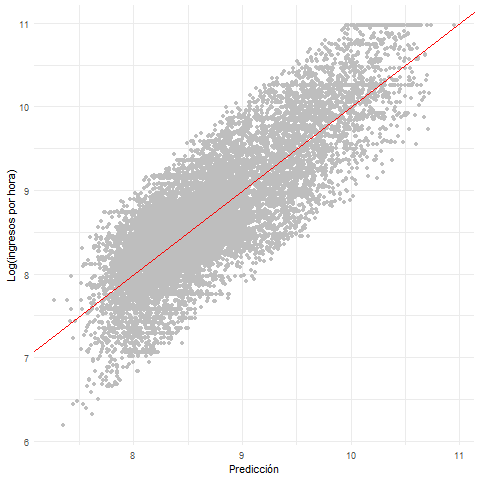
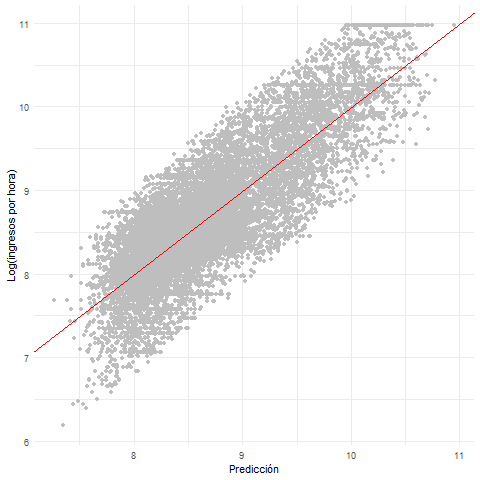
modificaciones

diff --git a/Latex/modelos_edad_ingresos_controles.tex b/Latex/modelos_edad_ingresos_controles.tex
@@ -1,6 +1,6 @@
 
 % Table created by stargazer v.5.2.3 by Marek Hlavac, Social Policy Institute. E-mail: marek.hlavac at gmail.com
-% Date and time: dom., sept. 15, 2024 - 9:50:37 a. m.
+% Date and time: dom., sept. 15, 2024 - 10:37:48 a. m.
 % Requires LaTeX packages: dcolumn 
 \begin{tabular}{@{\extracolsep{5pt}}lD{.}{.}{-3} D{.}{.}{-3} D{.}{.}{-3} } 
 \\[-1.8ex]\hline 
@@ -10,18 +10,18 @@
  & \multicolumn{1}{c}{Con controles} & \multicolumn{1}{c}{Sin obs. influyentes} & \multicolumn{1}{c}{Sin Valores atípicos} \\ 
 \\[-1.8ex] & \multicolumn{1}{c}{(1)} & \multicolumn{1}{c}{(2)} & \multicolumn{1}{c}{(3)}\\ 
 \hline \\[-1.8ex] 
- Edad & 0.039^{***} & 0.040^{***} & 0.037^{***} \\ 
+ Edad & 0.040^{***} & 0.040^{***} & 0.037^{***} \\ 
   & (0.002) & (0.002) & (0.002) \\ 
   & & & \\ 
  Edad al cuadrado & -0.0004^{***} & -0.0004^{***} & -0.0004^{***} \\ 
   & (0.00002) & (0.00002) & (0.00002) \\ 
   & & & \\ 
 \hline \\[-1.8ex] 
-Observaciones & \multicolumn{1}{c}{16,540} & \multicolumn{1}{c}{15,898} & \multicolumn{1}{c}{15,662} \\ 
-R$^{2}$ & \multicolumn{1}{c}{0.571} & \multicolumn{1}{c}{0.571} & \multicolumn{1}{c}{0.686} \\ 
-Adjusted R$^{2}$ & \multicolumn{1}{c}{0.569} & \multicolumn{1}{c}{0.569} & \multicolumn{1}{c}{0.684} \\ 
-Residual Std. Error & \multicolumn{1}{c}{0.531 (df = 16440)} & \multicolumn{1}{c}{0.529 (df = 15827)} & \multicolumn{1}{c}{0.402 (df = 15562)} \\ 
-F Statistic & \multicolumn{1}{c}{221.214$^{***}$ (df = 99; 16440)} & \multicolumn{1}{c}{300.390$^{***}$ (df = 70; 15827)} & \multicolumn{1}{c}{343.765$^{***}$ (df = 99; 15562)} \\ 
+Observaciones & \multicolumn{1}{c}{16,540} & \multicolumn{1}{c}{15,921} & \multicolumn{1}{c}{15,665} \\ 
+R$^{2}$ & \multicolumn{1}{c}{0.572} & \multicolumn{1}{c}{0.570} & \multicolumn{1}{c}{0.686} \\ 
+Adjusted R$^{2}$ & \multicolumn{1}{c}{0.570} & \multicolumn{1}{c}{0.568} & \multicolumn{1}{c}{0.684} \\ 
+Residual Std. Error & \multicolumn{1}{c}{0.530 (df = 16439)} & \multicolumn{1}{c}{0.529 (df = 15850)} & \multicolumn{1}{c}{0.402 (df = 15565)} \\ 
+F Statistic & \multicolumn{1}{c}{220.058$^{***}$ (df = 100; 16439)} & \multicolumn{1}{c}{300.396$^{***}$ (df = 70; 15850)} & \multicolumn{1}{c}{344.118$^{***}$ (df = 99; 15565)} \\ 
 \hline 
 \hline \\[-1.8ex] 
 \textit{Note:}  & \multicolumn{3}{r}{$^{*}$p$<$0.1; $^{**}$p$<$0.05; $^{***}$p$<$0.01} \\ 

diff --git a/Latex/modelos_edad_ingresos.tex b/Latex/modelos_edad_ingresos.tex
@@ -1,6 +1,6 @@
 
 % Table created by stargazer v.5.2.3 by Marek Hlavac, Social Policy Institute. E-mail: marek.hlavac at gmail.com
-% Date and time: dom., sept. 15, 2024 - 9:50:30 a. m.
+% Date and time: dom., sept. 15, 2024 - 10:37:41 a. m.
 % Requires LaTeX packages: dcolumn 
 \begin{table}[!htbp] \centering 
   \caption{} 
@@ -13,7 +13,7 @@
  & \multicolumn{1}{c}{Sin controles} & \multicolumn{1}{c}{Con controles} \\ 
 \\[-1.8ex] & \multicolumn{1}{c}{(1)} & \multicolumn{1}{c}{(2)}\\ 
 \hline \\[-1.8ex] 
- Edad & 0.056^{***} & 0.039^{***} \\ 
+ Edad & 0.056^{***} & 0.040^{***} \\ 
   & (0.003) & (0.002) \\ 
   & & \\ 
  Edad al cuadrado & -0.001^{***} & -0.0004^{***} \\ 
@@ -21,10 +21,10 @@
   & & \\ 
 \hline \\[-1.8ex] 
 Observaciones & \multicolumn{1}{c}{16,540} & \multicolumn{1}{c}{16,540} \\ 
-R$^{2}$ & \multicolumn{1}{c}{0.022} & \multicolumn{1}{c}{0.571} \\ 
-Adjusted R$^{2}$ & \multicolumn{1}{c}{0.022} & \multicolumn{1}{c}{0.569} \\ 
-Residual Std. Error & \multicolumn{1}{c}{0.799 (df = 16537)} & \multicolumn{1}{c}{0.531 (df = 16440)} \\ 
-F Statistic & \multicolumn{1}{c}{188.155$^{***}$ (df = 2; 16537)} & \multicolumn{1}{c}{221.214$^{***}$ (df = 99; 16440)} \\ 
+R$^{2}$ & \multicolumn{1}{c}{0.022} & \multicolumn{1}{c}{0.572} \\ 
+Adjusted R$^{2}$ & \multicolumn{1}{c}{0.022} & \multicolumn{1}{c}{0.570} \\ 
+Residual Std. Error & \multicolumn{1}{c}{0.799 (df = 16537)} & \multicolumn{1}{c}{0.530 (df = 16439)} \\ 
+F Statistic & \multicolumn{1}{c}{188.155$^{***}$ (df = 2; 16537)} & \multicolumn{1}{c}{220.058$^{***}$ (df = 100; 16439)} \\ 
 \hline 
 \hline \\[-1.8ex] 
 \textit{Note:}  & \multicolumn{2}{r}{$^{*}$p$<$0.1; $^{**}$p$<$0.05; $^{***}$p$<$0.01} \\ 

diff --git a/Latex/tabla_final.tex b/Latex/tabla_final.tex
@@ -1,6 +1,6 @@
 
 % Table created by stargazer v.5.2.3 by Marek Hlavac, Social Policy Institute. E-mail: marek.hlavac at gmail.com
-% Date and time: dom., sept. 15, 2024 - 9:50:38 a. m.
+% Date and time: dom., sept. 15, 2024 - 10:37:49 a. m.
 % Requires LaTeX packages: dcolumn 
 \begin{tabular}{@{\extracolsep{5pt}}lD{.}{.}{-3} D{.}{.}{-3} } 
 \\[-1.8ex]\hline 
@@ -17,11 +17,11 @@
   & (0.00003) & (0.00002) \\ 
   & & \\ 
 \hline \\[-1.8ex] 
-Observaciones & \multicolumn{1}{c}{16,540} & \multicolumn{1}{c}{15,662} \\ 
+Observaciones & \multicolumn{1}{c}{16,540} & \multicolumn{1}{c}{15,665} \\ 
 R$^{2}$ & \multicolumn{1}{c}{0.022} & \multicolumn{1}{c}{0.686} \\ 
 Adjusted R$^{2}$ & \multicolumn{1}{c}{0.022} & \multicolumn{1}{c}{0.684} \\ 
-Residual Std. Error & \multicolumn{1}{c}{0.799 (df = 16537)} & \multicolumn{1}{c}{0.402 (df = 15562)} \\ 
-F Statistic & \multicolumn{1}{c}{188.155$^{***}$ (df = 2; 16537)} & \multicolumn{1}{c}{343.765$^{***}$ (df = 99; 15562)} \\ 
+Residual Std. Error & \multicolumn{1}{c}{0.799 (df = 16537)} & \multicolumn{1}{c}{0.402 (df = 15565)} \\ 
+F Statistic & \multicolumn{1}{c}{188.155$^{***}$ (df = 2; 16537)} & \multicolumn{1}{c}{344.118$^{***}$ (df = 99; 15565)} \\ 
 \hline 
 \hline \\[-1.8ex] 
 \textit{Note:}  & \multicolumn{2}{r}{$^{*}$p$<$0.1; $^{**}$p$<$0.05; $^{***}$p$<$0.01} \\ 
